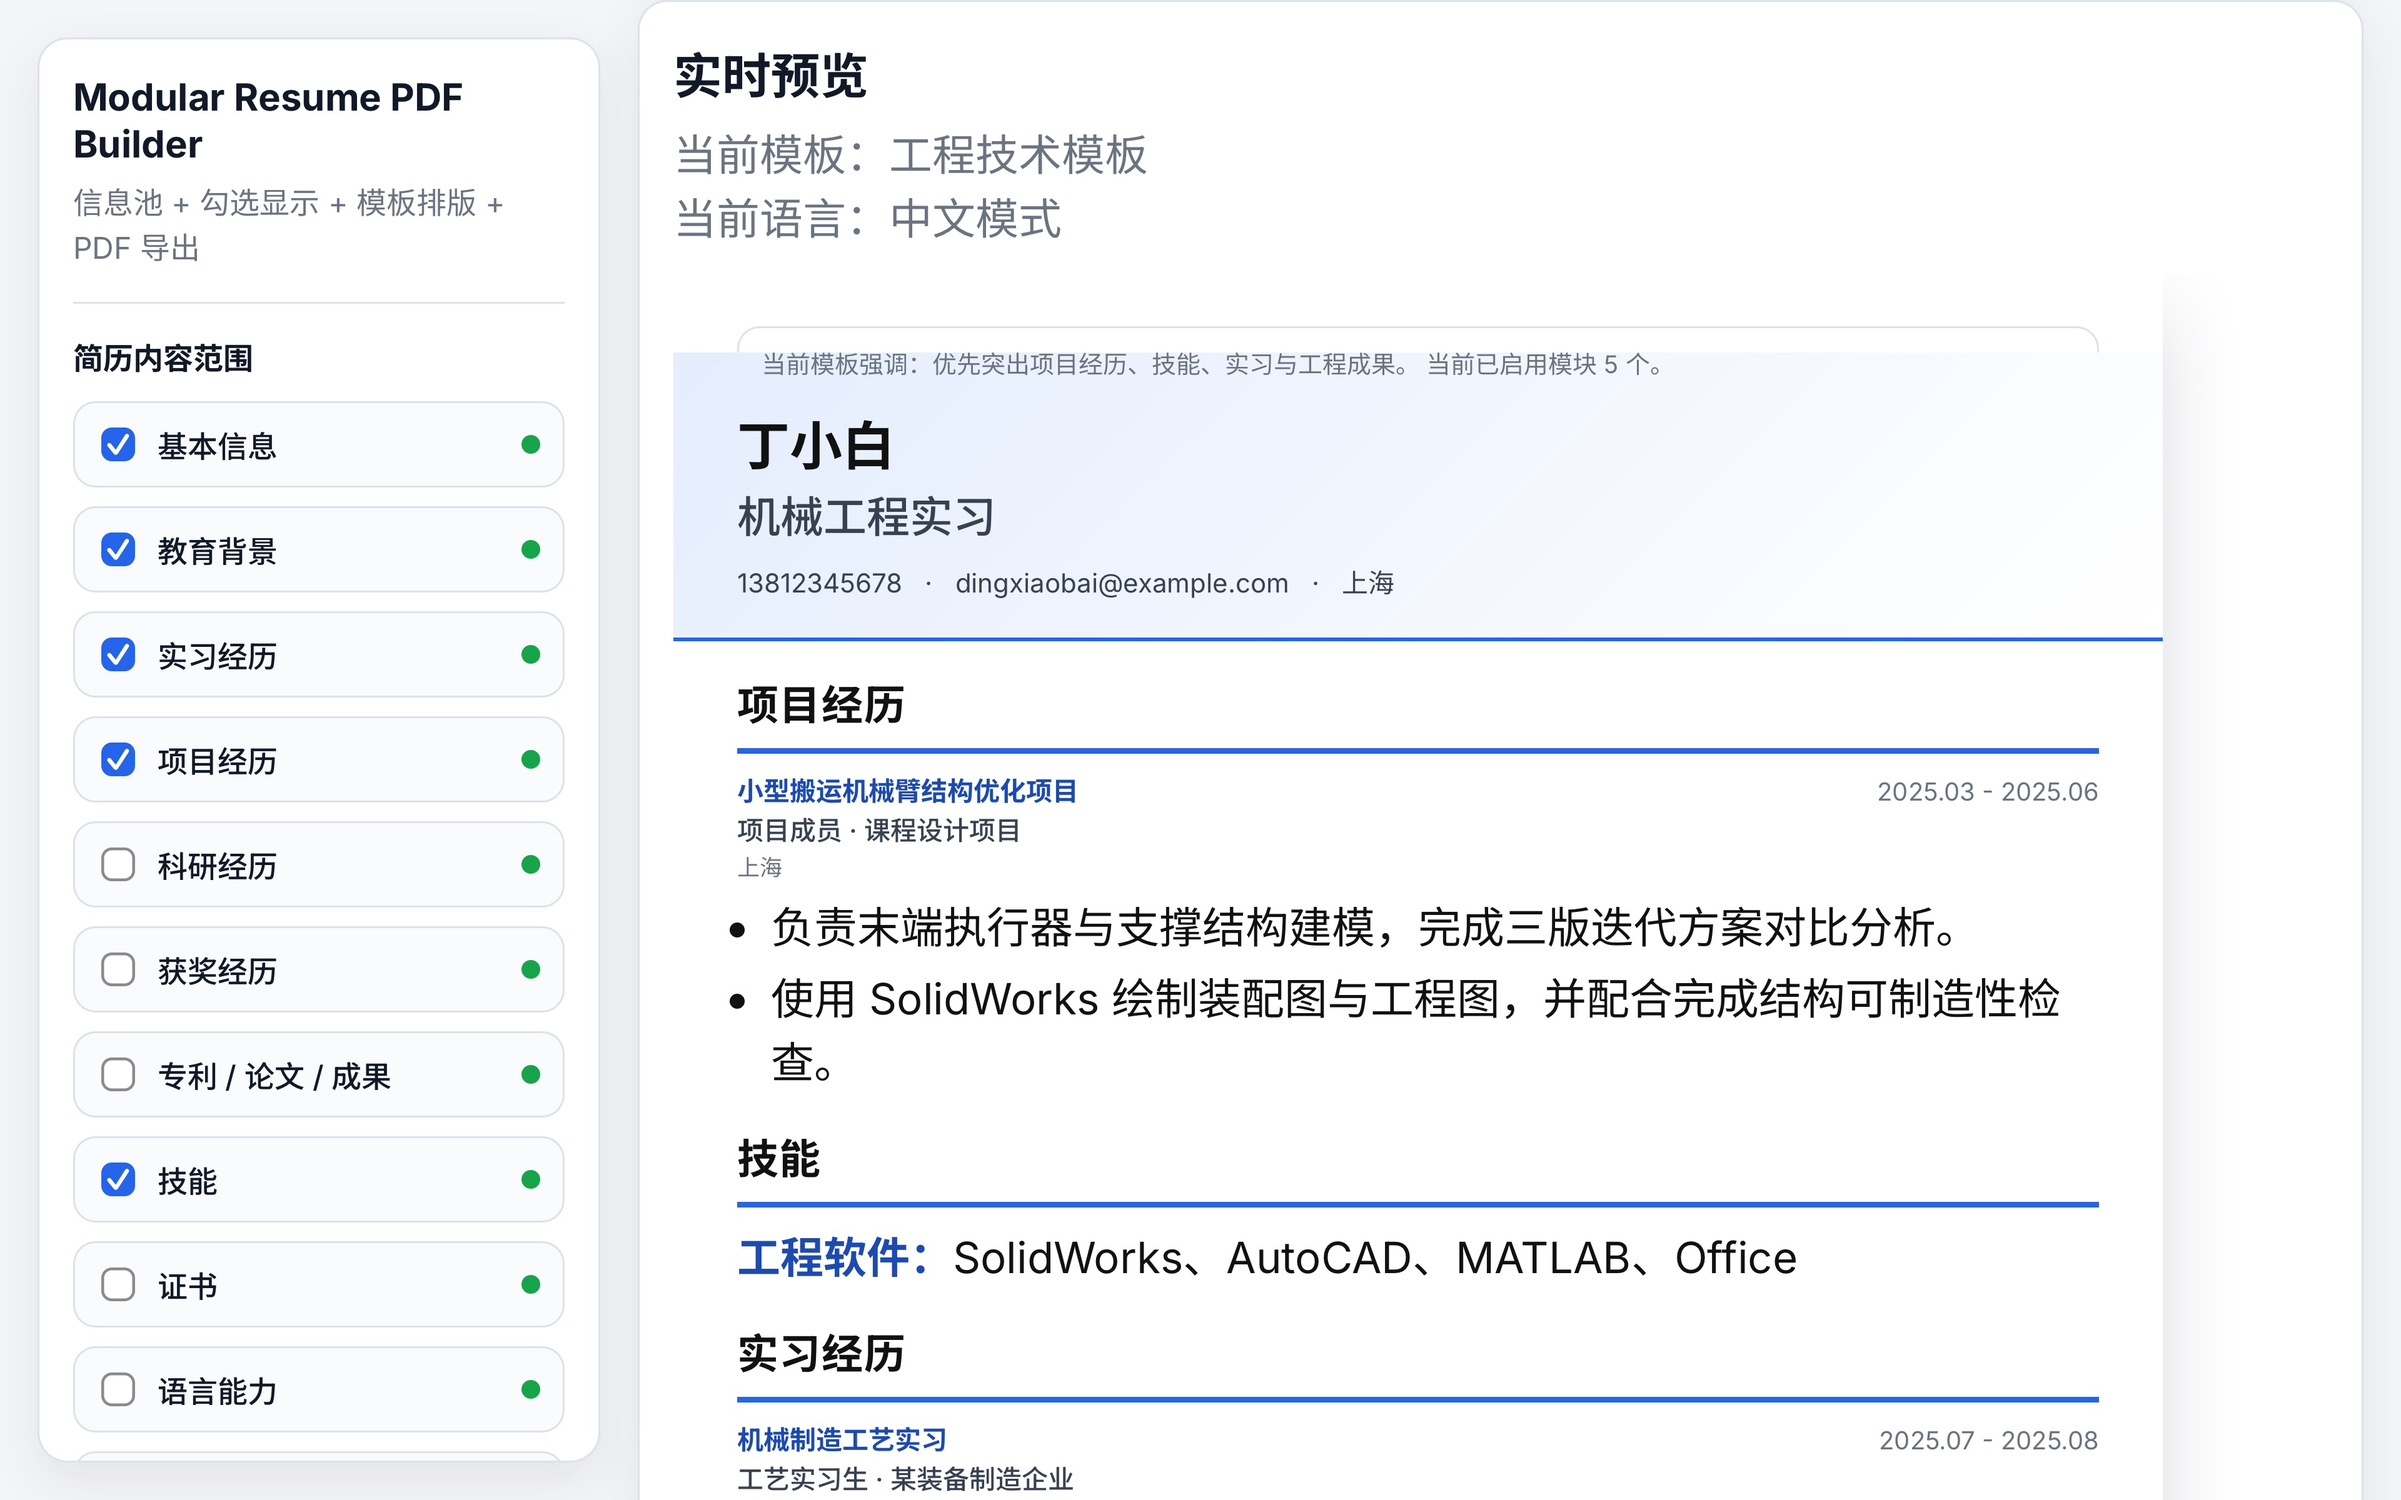
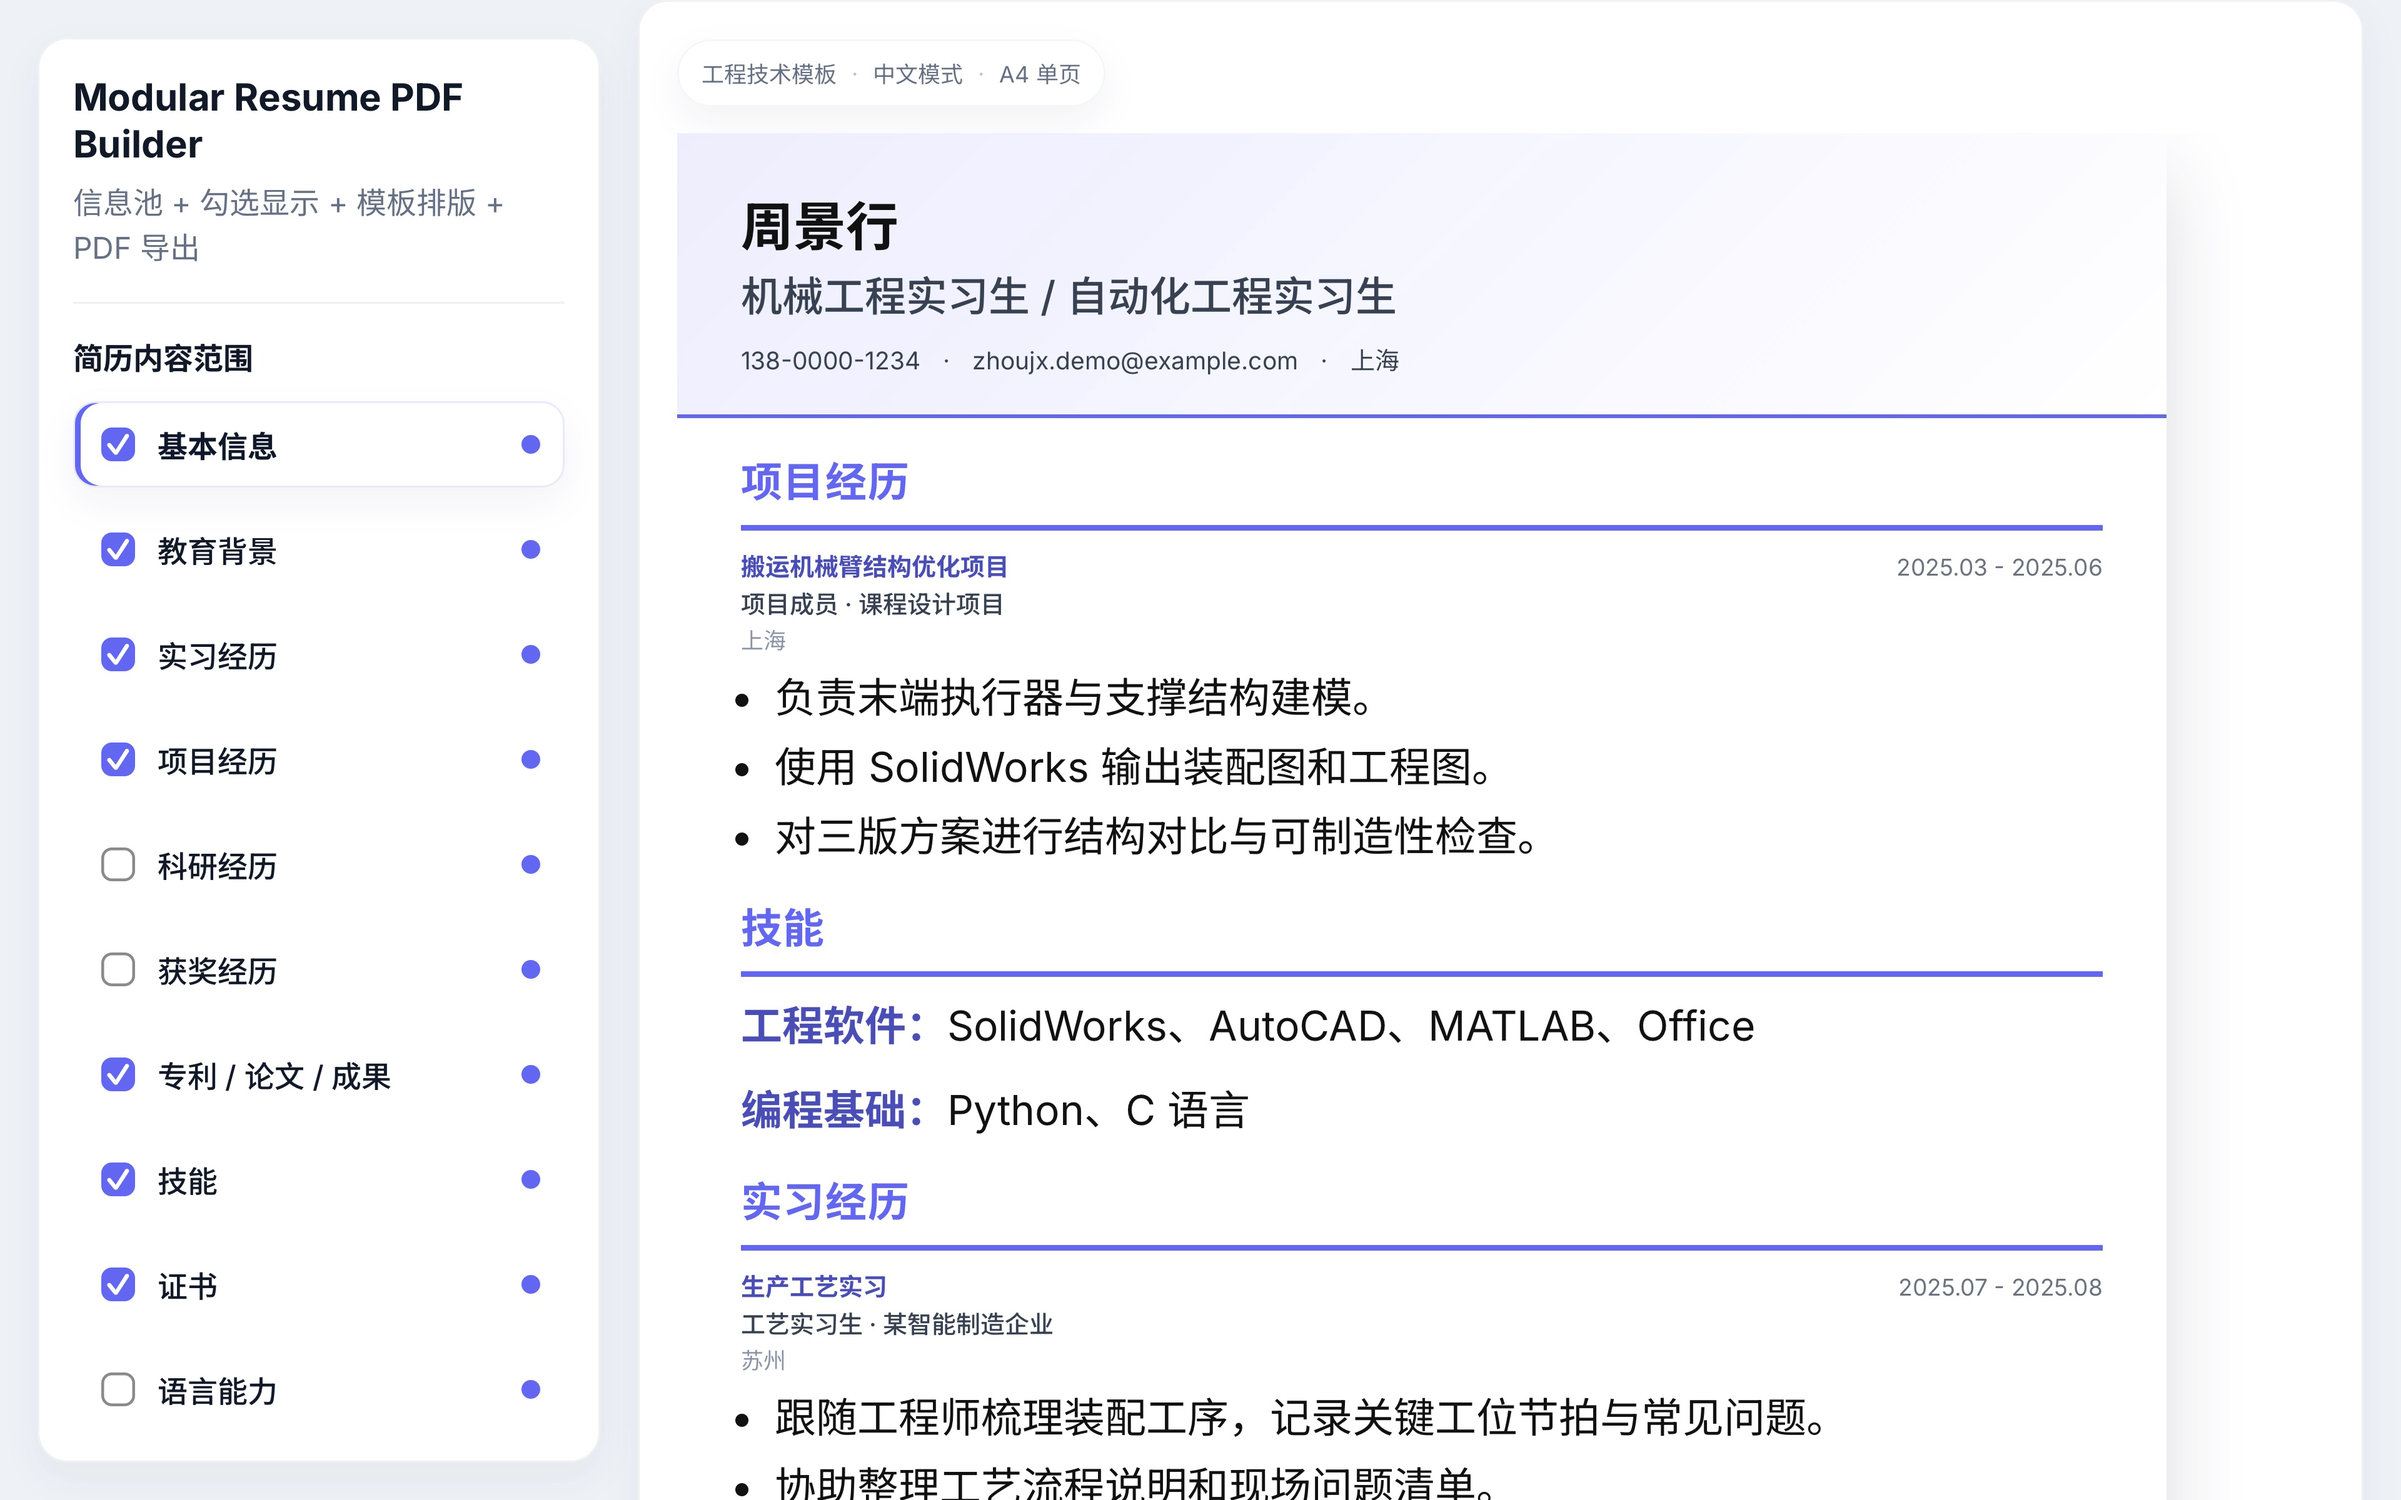
docs: prepare demo screenshots and v1.1.0 release materials

diff --git a/docs/release-notes-v1.1.0.md b/docs/release-notes-v1.1.0.md
@@ -1,0 +1,59 @@
+# v1.1.0 Product Polish Release
+
+## Positioning
+
+**中文：一份信息池，多份定制简历。**  
+**English: One information pool. Multiple tailored resumes.**
+
+## Release focus
+
+This release is about product polish rather than feature expansion.
+
+Key improvements include:
+- better mobile focus on the main workflow
+- clearer editing hierarchy
+- cleaner UI wording
+- stronger visual consistency
+- improved demo readiness
+- refined PDF export behavior
+
+## Highlight updates
+
+### Product-facing README
+The README has been rewritten as a product landing page instead of a technical document.
+
+### Demo datasets
+Four official demo datasets are included:
+- Engineering Student
+- Product Manager
+- Study Abroad Application
+- English Resume
+
+### Mobile product feel
+The mobile experience now focuses more clearly on:
+- editing
+- preview
+- export
+
+### Content scope workflow
+Unchecked modules no longer appear in the editor, but their content remains preserved.
+
+### Visual polish
+The UI now has stronger hierarchy, better readability, and more product-like panel focus.
+
+## Demo files
+
+- `demo-engineering-student.json`
+- `demo-product-manager.json`
+- `demo-study-abroad.json`
+- `demo-english-resume.json`
+
+## Notes
+
+This release does **not** aim to turn the project into a rich text editor or a canvas design tool.
+
+The product direction remains focused on:
+- structured information pool
+- module-based tailoring
+- fast role-specific resume generation
+- clean PDF export

diff --git a/README.md b/README.md
@@ -88,6 +88,15 @@ Prepare English-first versions without rebuilding the entire resume from scratch
 
 ---
 
+## Demo datasets
+
+- [Engineering Student Demo](minis://workspace/demo-engineering-student.json)
+- [Product Manager Demo](minis://workspace/demo-product-manager.json)
+- [Study Abroad Demo](minis://workspace/demo-study-abroad.json)
+- [English Resume Demo](minis://workspace/demo-english-resume.json)
+
+---
+
 ## Demo screenshots
 
 ### Editor
